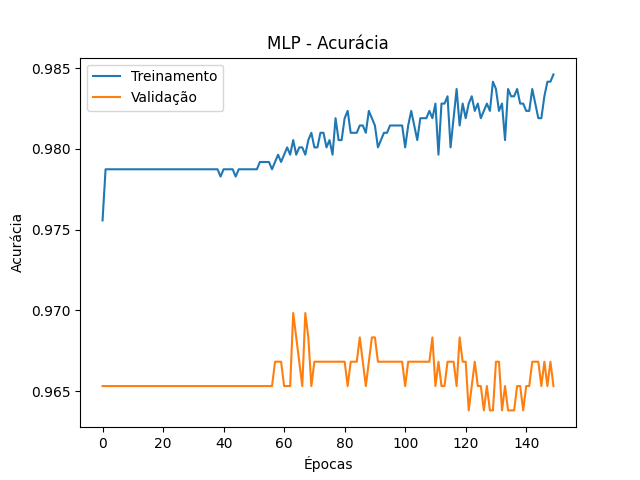
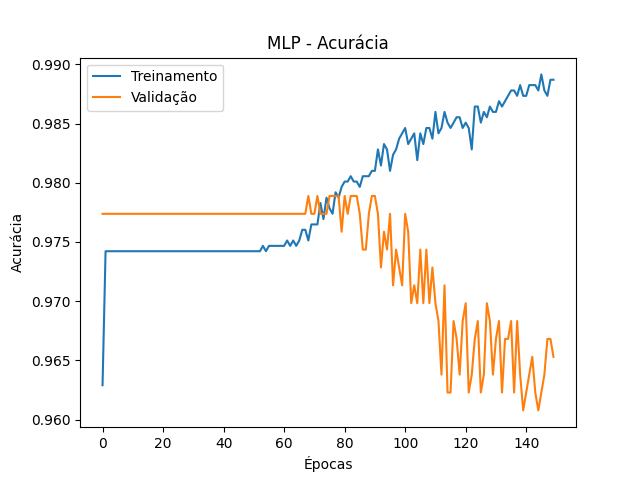
[UPD] batch_size comentado pois ainda será analisado se é realmente necessário

diff --git a/models/ModelLSTM.py b/models/ModelLSTM.py
@@ -61,8 +61,8 @@ class ModelLSTM(Model):
         # passa as camadas para uma nova variável sem ser por referência
         layers = self.layers[:]
         # valida se foram informados pelo menos 3 camadas: entrada, intermediária 01 e saída
-        if len(layers) < 3:
-            raise Exception('Informe pelo menos três camadas! ')
+        # if len(layers) < 3:
+        #     raise Exception('Informe pelo menos três camadas! ')
         # instacia o modelo
         self.model = Sequential()
 

diff --git a/models/Model.py b/models/Model.py
@@ -85,7 +85,8 @@ class Model:
             self.data['x_train'],
             self.data['y_train'],
             epochs=self.epochs,
-            batch_size=self.batch_size,
+            # TODO - batch_size comentado pois ainda será analisado se é realmente necessário
+            # batch_size=None,
             validation_data=(self.data['x_val'], self.data['y_val'])
         )
         return history

diff --git a/script_01_convert.py b/script_01_convert.py
@@ -13,7 +13,7 @@ def constructSentences(data):
     """
     sentences = []
     for index, row in data.iteritems():
-        # Converte para um formato legível para o computador
+        # converte para um formato legível para o computador
         sentences.append(TaggedDocument(utils.to_unicode(row).split(), [str(index)]))
     return sentences
 

diff --git a/01teste.py b/01teste.py
@@ -5,8 +5,8 @@ from models.ModelMLP import ModelMLP
 from models.ModelLSTM import ModelLSTM
 from sklearn.model_selection import train_test_split
 
-EPOCHS = 150
-BATCH_SIZE = 2211
+EPOCHS = 6
+BATCH_SIZE = 1
 
 
 def generateData():
